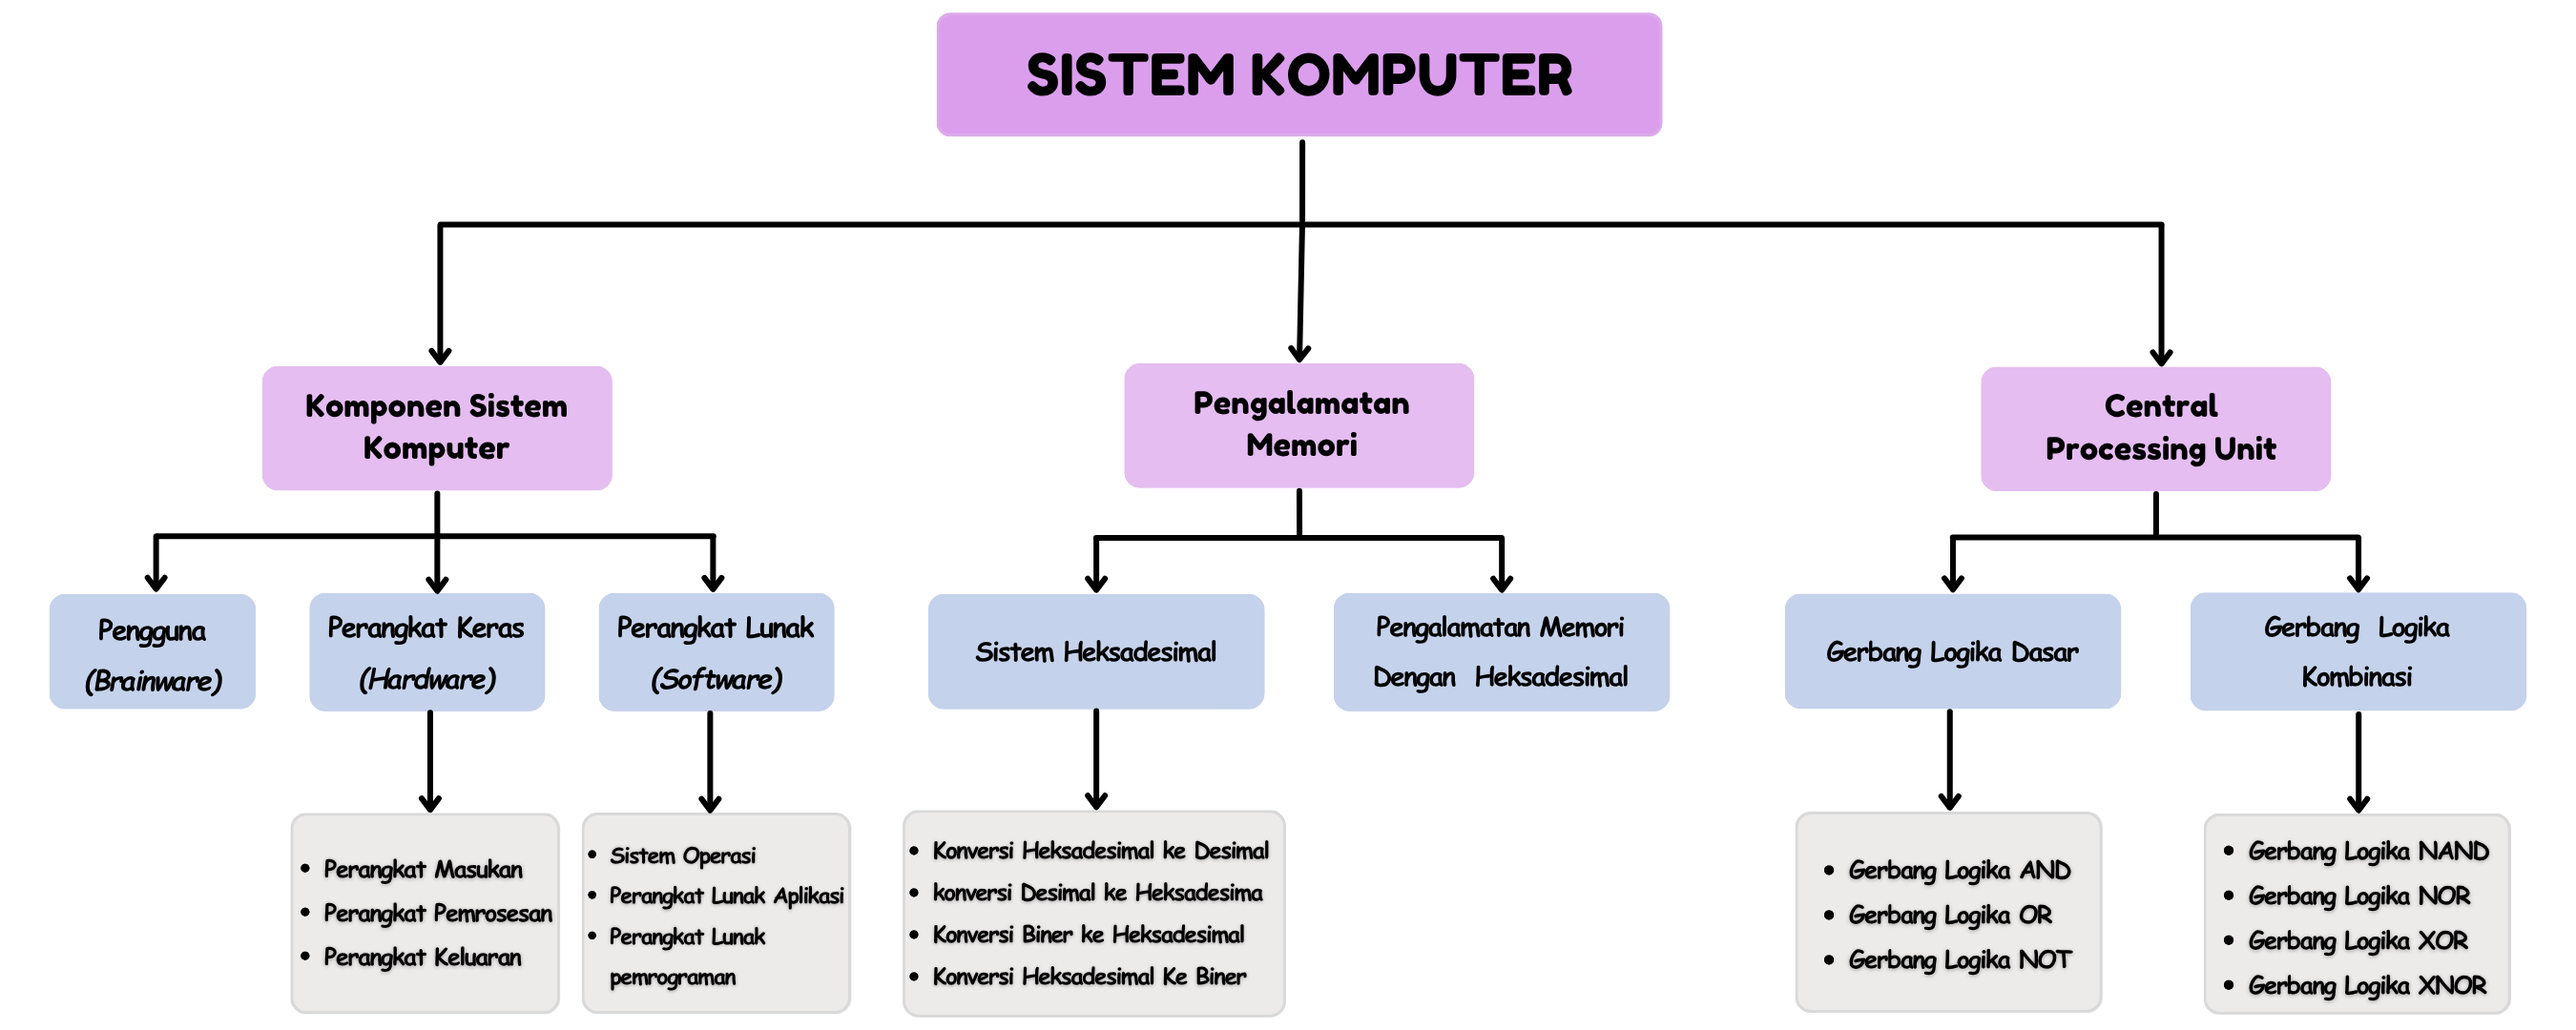
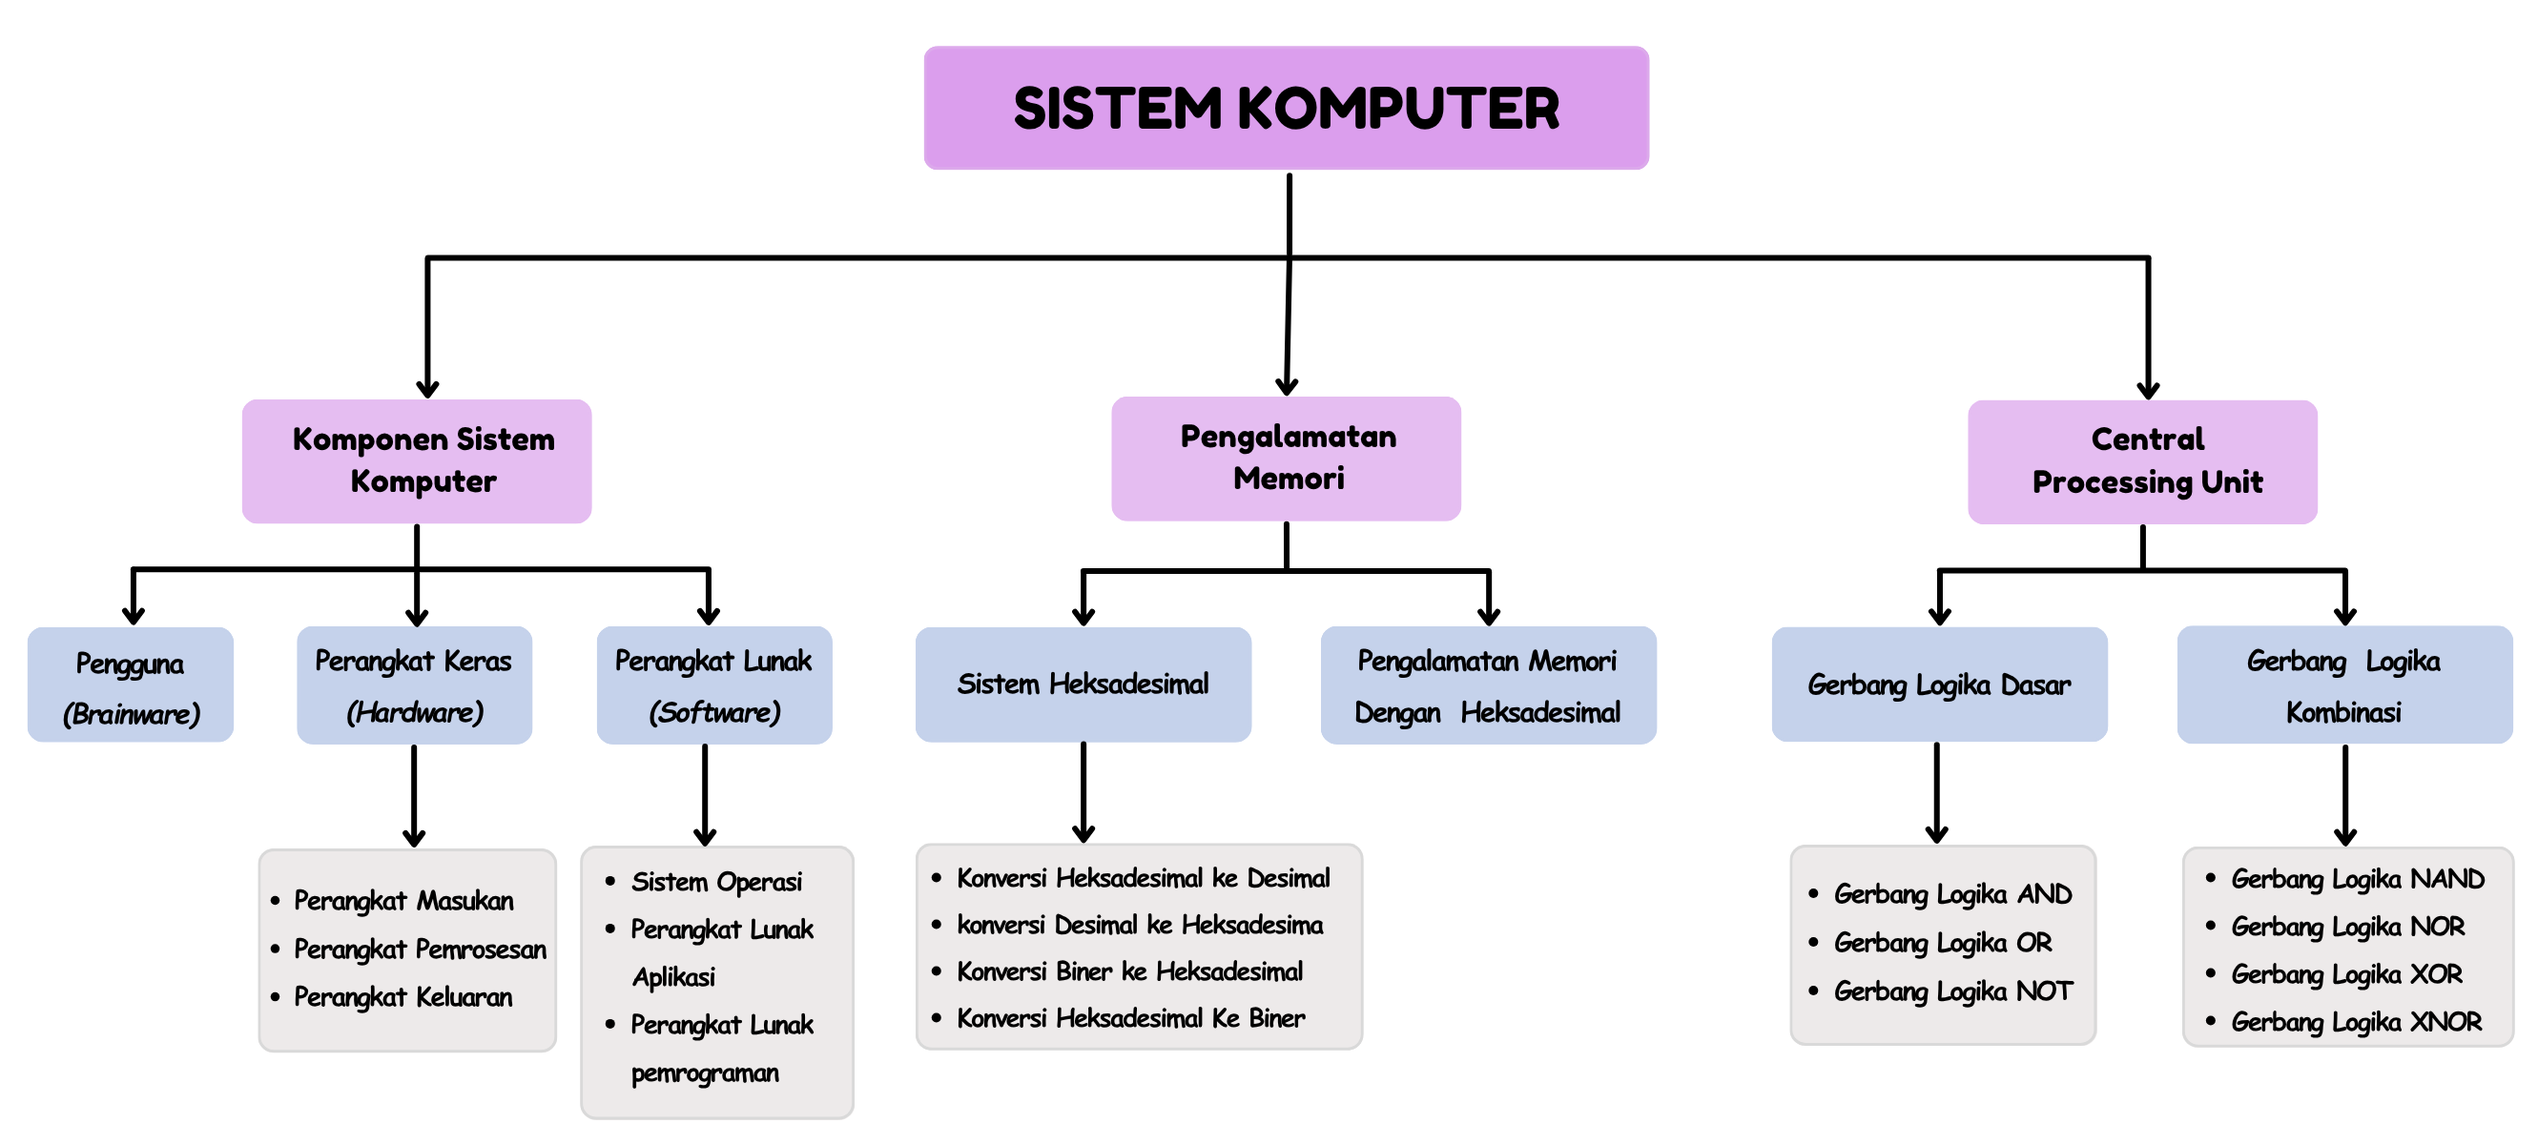
edit18 img

diff --git a/public/landing-page/css/cp.css b/public/landing-page/css/cp.css
@@ -104,7 +104,7 @@ p {
 }
 
 .imgpetakonsep {
-    width: 845px;
+    width: 850px;
 }
 
 table {
